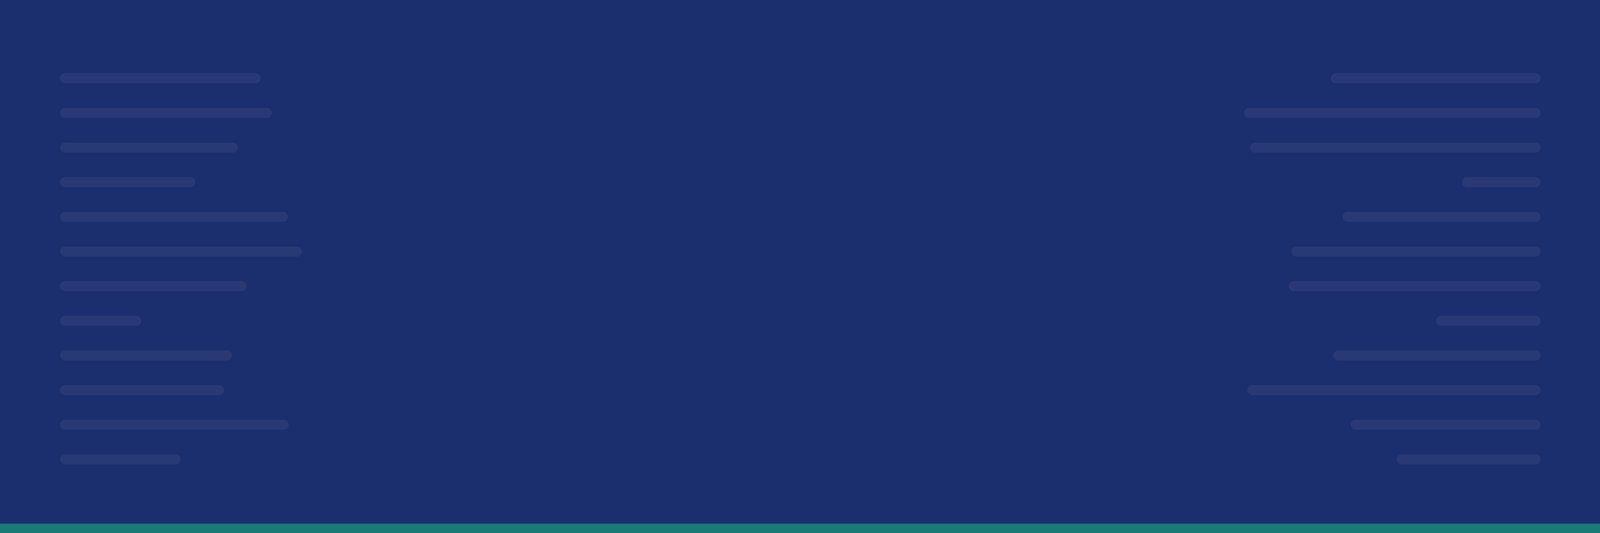
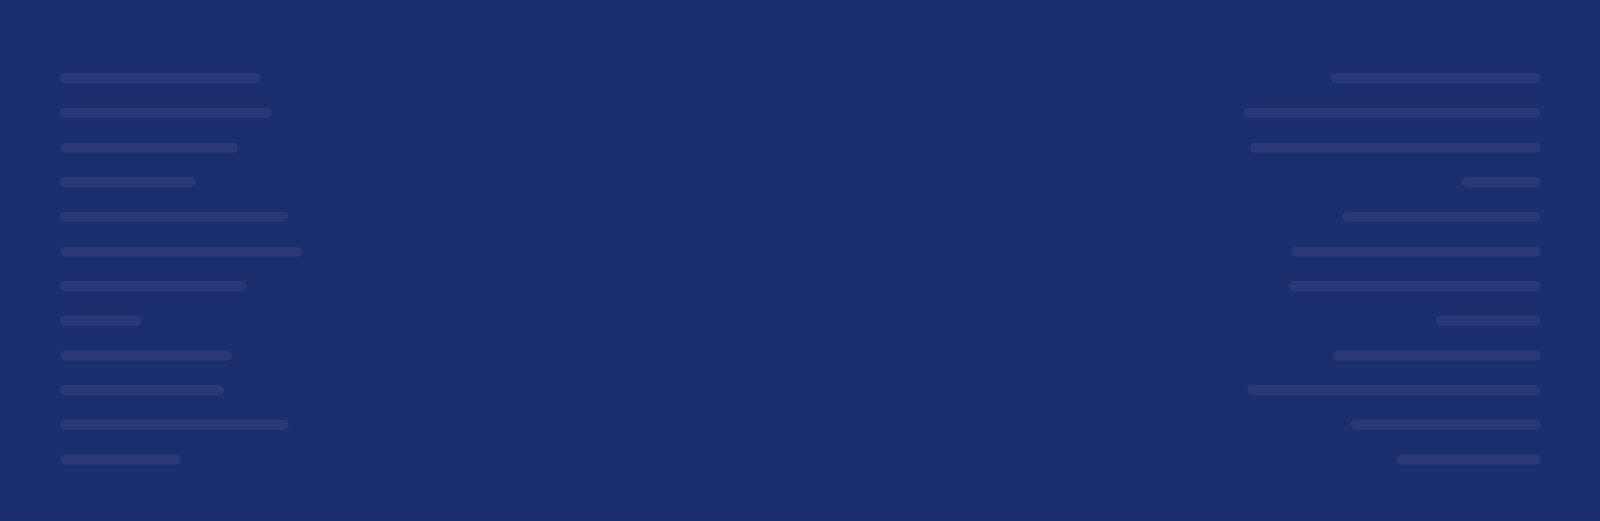
Style refresh: centered gradient header, SHOW badges on Step 4, title rule, share image
- Header: navy center fading to soft teal at both edges, plus a teal bottom
  edge drawn in CSS so desktop and phone match (mint subtitle stays >=4.8:1)
- Two-tone home tagline, short teal rule under page titles, mint bar on the
  current step button
- Step 4 SHOW letters use the same teal circles as the overview
- White gap between the Step 4 band and Take it with you
- Link previews use an absolute share.png made from the new header

Claude-Session: https://claude.ai/code/session_015teid1voJF6hMHwVPRFuMD

Changed region(s): [[0.0, 0.9827, 1.0, 1.0]]

diff --git a/index.html b/index.html
@@ -3,7 +3,8 @@
 <title>Overview · Detection to documentation</title>
 <meta name="description" content="Using a ‘Revision History’ extension to support authentic student writing in the age of AI. OLC Accelerate 2026 Discovery Session.">
 <meta property="og:title" content="Detection to documentation: Overview"><meta property="og:description" content="Using a ‘Revision History’ extension to support authentic student writing in the age of AI.">
-<meta property="og:image" content="assets/img/banner.jpg">
+<meta property="og:url" content="https://briannapack.github.io/detection-to-documentation/"><meta property="og:image" content="https://briannapack.github.io/detection-to-documentation/assets/img/share.png">
+<meta property="og:image:alt" content="Detection to documentation: Using a ‘Revision History’ extension to support authentic student writing in the age of AI"><meta name="twitter:card" content="summary_large_image">
 <link rel="icon" href="assets/img/badge-S.png">
 <link rel="preconnect" href="https://fonts.googleapis.com"><link rel="preconnect" href="https://fonts.gstatic.com" crossorigin>
 <link href="https://fonts.googleapis.com/css2?family=Lato:wght@400;700;900&display=swap" rel="stylesheet">
@@ -13,7 +14,7 @@
 <h1>Detection to documentation:</h1><p class="sub">Using a ‘Revision History’ extension to support authentic student writing in the age of AI</p><p class="meta">OLC Accelerate 2026 Discovery Session · Wed, Nov 18, 1:00–1:45 PM ET · Brianna M. Pack and Sharon K. Titus, Azusa Pacific University</p></div></header>
 <nav class="steps" aria-label="Session steps"><div class="in"><a href="" aria-current="page"><span>Start here</span>Overview</a><a href="step-1/"><span>Step 1</span>Install</a><a href="step-2/"><span>Step 2</span>Read the history</a><a href="step-3/"><span>Step 3</span>Watch the replay</a><a href="step-4/"><span>Step 4</span>Apply SHOW</a></div></nav>
 <main id="main"><section class="sec"><div class="in"><h2 class="title">Make your students SHOW their work</h2>
-<p class="leadc">Detection guesses from the product. Documentation shows the process.</p>
+<p class="leadc"><span class="n">Detection guesses from the product.</span> Documentation shows the process.</p>
 <p>AI detectors can’t show how the work was done, and they flag some students far more than others. The free ‘Revision History’ extension for Chrome replays how a Google Doc was written, so you can design assignments where the writing process is the evidence.</p></div></section>
 <section class="band"><div class="in"><h2 class="sr">SHOW in four parts</h2><div class="srow"><img src="assets/img/badge-S.png" alt="" width="64" height="64"><div><h3>Structure the assignment</h3><p>Set up milestones in one shared Doc, so you can see the writing process.</p></div></div><div class="srow"><img src="assets/img/badge-H.png" alt="" width="64" height="64"><div><h3>Hold students accountable</h3><p>Enforce the requirements, like no pasting, so the process stays visible.</p></div></div><div class="srow"><img src="assets/img/badge-O.png" alt="" width="64" height="64"><div><h3>Observe and respond</h3><p>Give feedback on the process at each milestone, so students improve.</p></div></div><div class="srow"><img src="assets/img/badge-W.png" alt="" width="64" height="64"><div><h3>Weigh the whole picture</h3><p>Grade the whole process, not just the final product.</p></div></div></div></section>
 <section class="sec"><div class="in center"><p>Steps 1 to 3 show you the tool on your own Google Doc. Step 4 puts SHOW into practice.</p>

diff --git a/assets/site.css b/assets/site.css
@@ -10,7 +10,7 @@ a{color:var(--blue)}
 .center{text-align:center}
 .sec{padding:34px 0}
 
-.hero{background:var(--navy) url(img/banner.jpg) center/cover;color:#fff;text-align:center;padding:26px 0 30px}
+.hero{background:linear-gradient(90deg,rgba(26,122,117,.5) 0%,rgba(26,122,117,0) 32%,rgba(26,122,117,0) 68%,rgba(26,122,117,.5) 100%),var(--navy) url(img/banner.jpg) center/cover;border-bottom:6px solid var(--teal);color:#fff;text-align:center;padding:26px 0 30px}
 .hero .lock{width:min(560px,90%);height:auto;display:block;margin:0 auto 18px}
 .hero h1{margin:0 0 8px;font-size:2.6rem;font-weight:900;line-height:1.15}
 .hero .sub{margin:0 0 10px;color:var(--mint);font-weight:700;font-size:1.25rem}
@@ -21,11 +21,13 @@ a{color:var(--blue)}
 .steps a{display:flex;flex-direction:column;justify-content:center;min-height:64px;padding:8px 10px;border:2px solid var(--navy);border-radius:10px;background:#fff;color:var(--navy);text-decoration:none;text-align:center;font-weight:900;line-height:1.2;font-size:.95rem}
 .steps a span{display:block;font-size:.68rem;letter-spacing:.12em;text-transform:uppercase;font-weight:900;color:var(--blue);margin-bottom:3px}
 .steps a:hover{background:#f6f8fc}
-.steps a[aria-current]{background:var(--navy);color:#fff}
+.steps a[aria-current]{background:var(--navy);color:#fff;box-shadow:inset 0 -4px 0 var(--mint)}
 .steps a[aria-current] span{color:var(--mint)}
 
 .title{font-size:2rem;font-weight:700;color:var(--navy);margin:0 0 10px;line-height:1.2}
+.title::after{content:"";display:block;width:56px;height:4px;margin-top:12px;border-radius:2px;background:var(--teal)}
 .leadc{color:var(--blue);font-weight:700;font-size:1.15rem}
+.leadc .n{color:var(--navy)}
 .lead{font-size:1.05rem;margin:16px 0 4px}
 .small{font-size:.85rem;color:var(--muted);margin:8px 0 0}
 
@@ -42,7 +44,7 @@ a{color:var(--blue)}
 .srow{display:grid;grid-template-columns:64px 1fr;gap:20px;align-items:center;margin:0 0 18px}
 .srow:last-of-type{margin-bottom:0}
 .srow img{width:64px;height:64px;display:block}
-.srow .big{font-size:3.2rem;font-weight:900;color:var(--teal);line-height:1;text-align:center}
+.srow .big{width:64px;height:64px;border-radius:50%;background:var(--teal);color:#fff;font-size:1.9rem;font-weight:900;line-height:1;display:flex;align-items:center;justify-content:center}
 .srow h3{margin:0 0 2px;color:var(--navy);font-size:1.3rem}
 .srow p{margin:0;font-size:1.05rem}
 
@@ -56,6 +58,7 @@ details.col summary{cursor:pointer;font-weight:700;color:var(--blue)}
 .nextrow{padding:26px 0 32px}
 
 .take{background:var(--tealwash);padding:32px 0 36px}
+.band + .take{margin-top:32px}
 .h2{font-size:1.7rem;color:var(--navy);margin:0 0 20px;font-weight:700}
 .tbtns{display:grid;grid-template-columns:repeat(3,1fr);gap:18px;max-width:900px;margin:0 auto}
 .tbtn{display:flex;flex-direction:column;justify-content:center;min-height:72px;padding:10px 14px;border:2px solid var(--teal);border-radius:10px;background:#fff;color:var(--teal);font-weight:900;text-decoration:none;line-height:1.2}
@@ -74,5 +77,5 @@ a:focus-visible,summary:focus-visible,button:focus-visible{outline:3px solid var
   .steps a:first-child{grid-column:1/-1}
   .title{font-size:1.6rem}
   .tbtns{grid-template-columns:1fr;gap:12px}
-  .srow{grid-template-columns:48px 1fr;gap:14px}.srow img{width:48px;height:48px}.srow .big{font-size:2.3rem}
+  .srow{grid-template-columns:48px 1fr;gap:14px}.srow img,.srow .big{width:48px;height:48px}.srow .big{font-size:1.45rem}
 }

diff --git a/step-2/index.html b/step-2/index.html
@@ -3,7 +3,8 @@
 <title>Step 2: Read the history · Detection to documentation</title>
 <meta name="description" content="Using a ‘Revision History’ extension to support authentic student writing in the age of AI. OLC Accelerate 2026 Discovery Session.">
 <meta property="og:title" content="Detection to documentation: Step 2: Read the history"><meta property="og:description" content="Using a ‘Revision History’ extension to support authentic student writing in the age of AI.">
-<meta property="og:image" content="../assets/img/banner.jpg">
+<meta property="og:url" content="https://briannapack.github.io/detection-to-documentation/step-2/"><meta property="og:image" content="https://briannapack.github.io/detection-to-documentation/assets/img/share.png">
+<meta property="og:image:alt" content="Detection to documentation: Using a ‘Revision History’ extension to support authentic student writing in the age of AI"><meta name="twitter:card" content="summary_large_image">
 <link rel="icon" href="../assets/img/badge-S.png">
 <link rel="preconnect" href="https://fonts.googleapis.com"><link rel="preconnect" href="https://fonts.gstatic.com" crossorigin>
 <link href="https://fonts.googleapis.com/css2?family=Lato:wght@400;700;900&display=swap" rel="stylesheet">

diff --git a/step-3/index.html b/step-3/index.html
@@ -3,7 +3,8 @@
 <title>Step 3: Watch the replay · Detection to documentation</title>
 <meta name="description" content="Using a ‘Revision History’ extension to support authentic student writing in the age of AI. OLC Accelerate 2026 Discovery Session.">
 <meta property="og:title" content="Detection to documentation: Step 3: Watch the replay"><meta property="og:description" content="Using a ‘Revision History’ extension to support authentic student writing in the age of AI.">
-<meta property="og:image" content="../assets/img/banner.jpg">
+<meta property="og:url" content="https://briannapack.github.io/detection-to-documentation/step-3/"><meta property="og:image" content="https://briannapack.github.io/detection-to-documentation/assets/img/share.png">
+<meta property="og:image:alt" content="Detection to documentation: Using a ‘Revision History’ extension to support authentic student writing in the age of AI"><meta name="twitter:card" content="summary_large_image">
 <link rel="icon" href="../assets/img/badge-S.png">
 <link rel="preconnect" href="https://fonts.googleapis.com"><link rel="preconnect" href="https://fonts.gstatic.com" crossorigin>
 <link href="https://fonts.googleapis.com/css2?family=Lato:wght@400;700;900&display=swap" rel="stylesheet">

diff --git a/step-4/index.html b/step-4/index.html
@@ -3,7 +3,8 @@
 <title>Step 4: Apply SHOW · Detection to documentation</title>
 <meta name="description" content="Using a ‘Revision History’ extension to support authentic student writing in the age of AI. OLC Accelerate 2026 Discovery Session.">
 <meta property="og:title" content="Detection to documentation: Step 4: Apply SHOW"><meta property="og:description" content="Using a ‘Revision History’ extension to support authentic student writing in the age of AI.">
-<meta property="og:image" content="../assets/img/banner.jpg">
+<meta property="og:url" content="https://briannapack.github.io/detection-to-documentation/step-4/"><meta property="og:image" content="https://briannapack.github.io/detection-to-documentation/assets/img/share.png">
+<meta property="og:image:alt" content="Detection to documentation: Using a ‘Revision History’ extension to support authentic student writing in the age of AI"><meta name="twitter:card" content="summary_large_image">
 <link rel="icon" href="../assets/img/badge-S.png">
 <link rel="preconnect" href="https://fonts.googleapis.com"><link rel="preconnect" href="https://fonts.gstatic.com" crossorigin>
 <link href="https://fonts.googleapis.com/css2?family=Lato:wght@400;700;900&display=swap" rel="stylesheet">

diff --git a/step-1/index.html b/step-1/index.html
@@ -3,7 +3,8 @@
 <title>Step 1: Install · Detection to documentation</title>
 <meta name="description" content="Using a ‘Revision History’ extension to support authentic student writing in the age of AI. OLC Accelerate 2026 Discovery Session.">
 <meta property="og:title" content="Detection to documentation: Step 1: Install"><meta property="og:description" content="Using a ‘Revision History’ extension to support authentic student writing in the age of AI.">
-<meta property="og:image" content="../assets/img/banner.jpg">
+<meta property="og:url" content="https://briannapack.github.io/detection-to-documentation/step-1/"><meta property="og:image" content="https://briannapack.github.io/detection-to-documentation/assets/img/share.png">
+<meta property="og:image:alt" content="Detection to documentation: Using a ‘Revision History’ extension to support authentic student writing in the age of AI"><meta name="twitter:card" content="summary_large_image">
 <link rel="icon" href="../assets/img/badge-S.png">
 <link rel="preconnect" href="https://fonts.googleapis.com"><link rel="preconnect" href="https://fonts.gstatic.com" crossorigin>
 <link href="https://fonts.googleapis.com/css2?family=Lato:wght@400;700;900&display=swap" rel="stylesheet">

diff --git a/build.py b/build.py
@@ -11,6 +11,7 @@ TITLE = "Detection to documentation"
 SUBTITLE = "Using a ‘Revision History’ extension to support authentic student writing in the age of AI"
 META = ("OLC Accelerate 2026 Discovery Session · Wed, Nov 18, 1:00–1:45 PM ET · "
         "Brianna M. Pack and Sharon K. Titus, Azusa Pacific University")
+SITE_URL = "https://briannapack.github.io/detection-to-documentation/"
 EVALUATE_URL = "https://olc.secure-platform.com/accelerate2026/gallery/rounds/82074/schedule/items/31748"
 
 STEPS = [
@@ -86,7 +87,7 @@ def home(b):
     rows = "".join(f'<div class="srow"><img src="{b}assets/img/badge-{l}.png" alt="" width="64" height="64"><div><h3>{t}</h3><p>{d}</p></div></div>'
                    for l, t, d in SHOW_ROWS)
     return f"""<section class="sec"><div class="in"><h2 class="title">Make your students SHOW their work</h2>
-<p class="leadc">Detection guesses from the product. Documentation shows the process.</p>
+<p class="leadc"><span class="n">Detection guesses from the product.</span> Documentation shows the process.</p>
 <p>AI detectors can’t show how the work was done, and they flag some students far more than others. The free ‘Revision History’ extension for Chrome replays how a Google Doc was written, so you can design assignments where the writing process is the evidence.</p></div></section>
 <section class="band"><div class="in"><h2 class="sr">SHOW in four parts</h2>{rows}</div></section>
 <section class="sec"><div class="in center"><p>Steps 1 to 3 show you the tool on your own Google Doc. Step 4 puts SHOW into practice.</p>
@@ -169,7 +170,8 @@ def page(key, path, name, body):
 <title>{name} · {TITLE}</title>
 <meta name="description" content="{SUBTITLE}. OLC Accelerate 2026 Discovery Session.">
 <meta property="og:title" content="{TITLE}: {name}"><meta property="og:description" content="{SUBTITLE}.">
-<meta property="og:image" content="{b}assets/img/banner.jpg">
+<meta property="og:url" content="{SITE_URL}{path}"><meta property="og:image" content="{SITE_URL}assets/img/share.png">
+<meta property="og:image:alt" content="{TITLE}: {SUBTITLE}"><meta name="twitter:card" content="summary_large_image">
 <link rel="icon" href="{b}assets/img/badge-S.png">
 <link rel="preconnect" href="https://fonts.googleapis.com"><link rel="preconnect" href="https://fonts.gstatic.com" crossorigin>
 <link href="https://fonts.googleapis.com/css2?family=Lato:wght@400;700;900&display=swap" rel="stylesheet">
